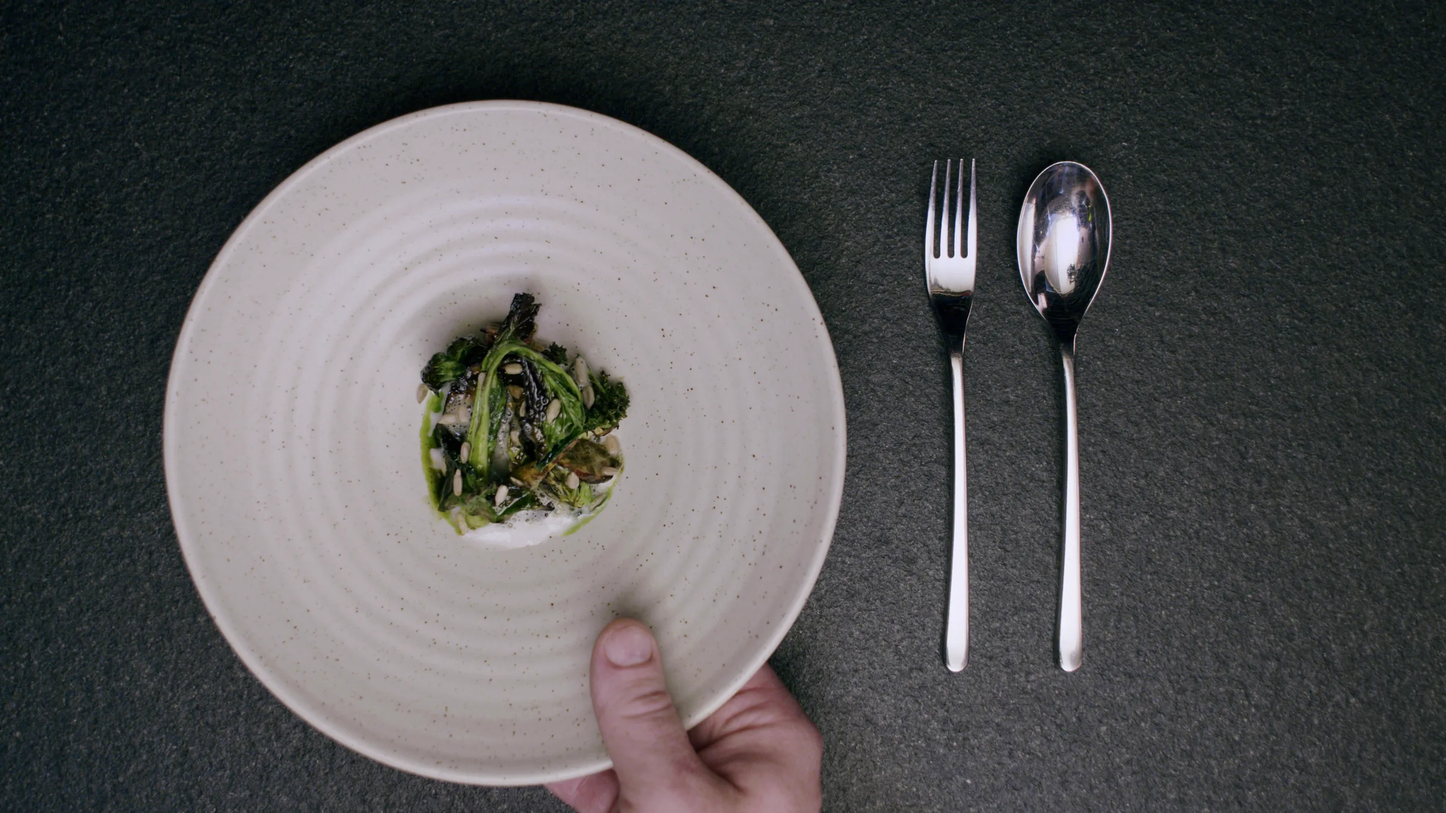
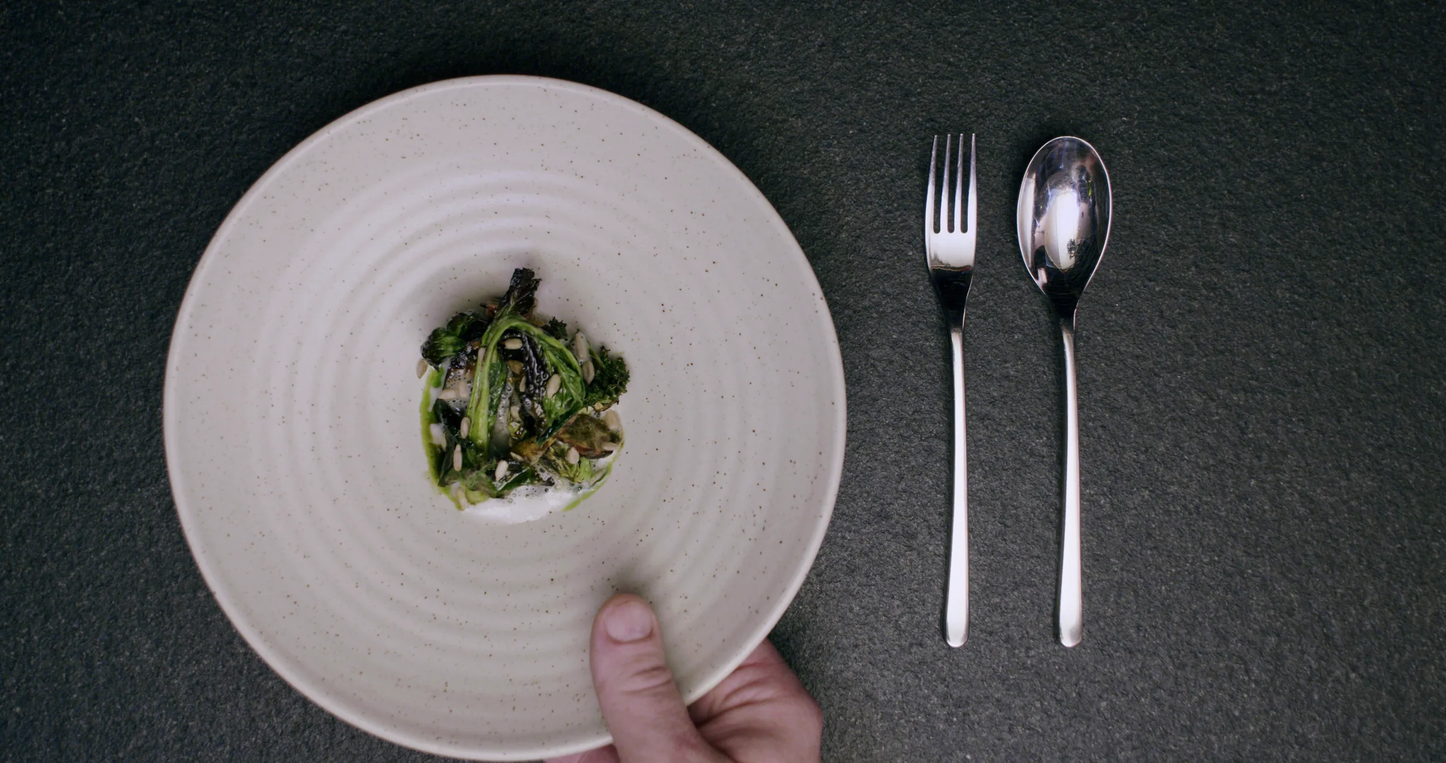
Round 43

diff --git a/data.js b/data.js
@@ -129,37 +129,36 @@ const OTHER_WORK = {
             { video: "clips/restaurants/aulis-fish.mp4",          poster: "clips/restaurants/aulis-fish.jpg", cut: 13.77 },
             { video: "clips/restaurants/aulis-fire.mp4",          poster: "clips/restaurants/aulis-fire.jpg", cut: 11.39 }
           ] },
-          // stills from the shoot, in a shuffled order; the first three named in preview make the preview block
-          { type: "gallery", label: "Stills", dir: "images/restaurants/aulis-stills", preview: ["aulis-still-08", "aulis-still-05", "aulis-still-13"], photos: [
-              { file: "aulis-still-06", ratio: 1.896 },
-              { file: "aulis-still-18", ratio: 1.894 },
-              { file: "aulis-still-21", ratio: 1.897 },
-              { file: "aulis-still-16", ratio: 1.894 },
-              { file: "aulis-still-08", ratio: 1.896 },
-              { file: "aulis-still-15", ratio: 1.899 },
-              { file: "aulis-still-22", ratio: 1.894 },
-              { file: "aulis-still-20", ratio: 1.897 },
+          // stills from the shoot, three to a row when opened: kitchen and food shots alternate with sourcing and suppliers outdoors
+          { type: "gallery", label: "Stills", cols: 3, dir: "images/restaurants/aulis-stills", preview: ["aulis-still-08", "aulis-still-05", "aulis-still-13"], photos: [
+              { file: "aulis-still-14", ratio: 1.896 },
+              { file: "aulis-still-19", ratio: 1.896 },
               { file: "aulis-still-07", ratio: 1.896 },
-              { file: "aulis-still-19", ratio: 1.899 },
-              { file: "aulis-still-14", ratio: 1.894 },
-              { file: "aulis-still-17", ratio: 1.894 },
-              { file: "aulis-still-09", ratio: 1.896 },
-              { file: "aulis-still-01", ratio: 1.896 },
-              { file: "aulis-still-10", ratio: 1.896 },
-              { file: "aulis-still-12", ratio: 1.896 },
-              { file: "aulis-still-04", ratio: 1.896 },
-              { file: "aulis-still-03", ratio: 1.896 },
-              { file: "aulis-still-02", ratio: 1.896 },
-              { file: "aulis-still-13", ratio: 1.778 },
+              { file: "aulis-still-08", ratio: 1.896 },
+              { file: "aulis-still-22", ratio: 1.896 },
               { file: "aulis-still-05", ratio: 1.896 },
-              { file: "aulis-still-11", ratio: 1.896 }
+              { file: "aulis-still-12", ratio: 1.896 },
+              { file: "aulis-still-17", ratio: 1.896 },
+              { file: "aulis-still-13", ratio: 1.896 },
+              { file: "aulis-still-10", ratio: 1.896 },
+              { file: "aulis-still-18", ratio: 1.896 },
+              { file: "aulis-still-01", ratio: 1.896 },
+              { file: "aulis-still-09", ratio: 1.896 },
+              { file: "aulis-still-15", ratio: 1.896 },
+              { file: "aulis-still-06", ratio: 1.896 },
+              { file: "aulis-still-11", ratio: 1.896 },
+              { file: "aulis-still-16", ratio: 1.896 },
+              { file: "aulis-still-02", ratio: 1.896 },
+              { file: "aulis-still-03", ratio: 1.896 },
+              { file: "aulis-still-21", ratio: 1.896 },
+              { file: "aulis-still-04", ratio: 1.896 }
           ] }
         ]
       },
       {
         client: "Simon Rogan", title: "ION Harbour",
         blocks: [
-          { type: "photo", image: "images/restaurants/l/ion-renny.webp", ratio: 0.563 },
+          { type: "photo", image: "images/restaurants/l/ion-greenhouse.webp", ratio: 0.564 },
           { type: "text", text: [
             "ION Harbour by Simon Rogan sits overlooking Malta’s Grand Harbour, Valletta. It opened in November 2020 and won its first Michelin star less than six months later. In April 2024 it became the first restaurant in Malta to hold two Michelin stars.",
             "ION Harbour takes the farm-to-fork approach Rogan developed at L’Enclume in the Lake District and applies it to the Mediterranean. Its seasonal tasting menu depends on close relationships with Maltese farmers, fishermen and artisans, and it is shaped by whatever the island is producing at its best.",

diff --git a/main.js b/main.js
@@ -454,7 +454,7 @@
   /* ---------- Field Map: load the turning globe only as its section comes near ---------- */
   const fmBox = $('#fmGlobe');
   if (fmBox) {
-    const FMV = '20261013n';
+    const FMV = '20261013p';
     const load = src => new Promise((ok, no) => { const s = document.createElement('script'); s.src = src; s.onload = ok; s.onerror = no; document.head.appendChild(s); });
     const lo = new IntersectionObserver(async es => {
       if (!es[0].isIntersecting) return; lo.disconnect();
@@ -605,7 +605,7 @@
       case 'text': case 'titletext': return `<div class="blk txt it${b.type === 'titletext' ? ' tt' : ''}" ${pa} style="background:none">${b.type === 'titletext' ? `<div class="k">${esc(b.k || p.client || S.group)}</div><h2>${esc(b.title || p.title)}</h2>` : ''}${(b.text || []).map(t => `<p>${esc(t)}</p>`).join('')}</div>`;
       case 'gallery': {
         // a single preview block; the full gallery opens on click
-        const gi = galleries.push({ dir: b.dir, photos: b.photos || [], title: p.title }) - 1, ph = b.photos || [], more = Math.max(0, ph.length - 3);
+        const gi = galleries.push({ dir: b.dir, photos: b.photos || [], title: p.title, cols: +b.cols || 0 }) - 1, ph = b.photos || [], more = Math.max(0, ph.length - 3);
         const pv = (b.preview && b.preview.length ? b.preview : ph.slice(0, 3).map(x => x.file));
         const im = j => pv[j] ? `<img src="${esc(b.dir)}/m/${esc(pv[j])}.webp" alt="" loading="lazy" decoding="async">` : '';
         return `<div class="blk galh${b.join ? ' join' : ''}" ${pa}><button type="button" class="it gh" data-g="${gi}" aria-label="Open the photo gallery, ${ph.length} photos">
@@ -1040,7 +1040,8 @@
         const h = last ? Math.min(target, (W - gap * (row.length - 1)) / sum) : (W - gap * (row.length - 1)) / sum;
         row.forEach(([el, r]) => { el.style.width = (r * h) + 'px'; el.style.height = h + 'px'; }); row = []; sum = 0;
       };
-      its.forEach((el, i) => { const r = +G.photos[i].ratio || 1.5; row.push([el, r]); sum += r; if (sum * target + gap * (row.length - 1) >= W) flush(false); });
+      const cols = innerWidth >= 760 && G.cols;   // a set number per row, e.g. three across
+      its.forEach((el, i) => { const r = +G.photos[i].ratio || 1.5; row.push([el, r]); sum += r; if (cols ? row.length === cols : sum * target + gap * (row.length - 1) >= W) flush(false); });
       if (row.length) flush(true);
     };
     addEventListener('resize', () => { if (pg.classList.contains('open')) justify(); });

diff --git a/index.html b/index.html
@@ -11,11 +11,11 @@
 <link rel="preconnect" href="https://fonts.googleapis.com">
 <link rel="preconnect" href="https://fonts.gstatic.com" crossorigin>
 <link href="https://fonts.googleapis.com/css2?family=IBM+Plex+Mono:wght@400;500&family=Instrument+Serif:ital@0;1&family=Manrope:wght@300;400;500;600&display=swap" rel="stylesheet">
-<link rel="stylesheet" href="style.css?v=20261013n">
+<link rel="stylesheet" href="style.css?v=20261013p">
 <script type="application/ld+json">
 {"@context":"https://schema.org","@type":"Person","name":"Christian Marot","jobTitle":"Wildlife & Natural History Cinematographer","birthPlace":"London, UK","homeLocation":{"@type":"Place","name":"London, UK"},"email":"mailto:christian.marot@hotmail.com","url":"https://www.christianmarot.com","image":"https://www.christianmarot.com/images/christian-marot-wildlife-cinematographer.jpg","sameAs":["https://www.instagram.com/christianmarot/","https://vimeo.com/christianmarot","https://www.linkedin.com/in/christian-marot-9525902a/","https://www.imdb.com/name/nm6849161/"]}
 </script>
-<script src="data.js?v=20261013n"></script>
+<script src="data.js?v=20261013p"></script>
 </head>
 <body>
 
@@ -201,6 +201,6 @@
   <div class="base"><span>© 2026 Christian Marot · Wildlife &amp; Natural History Cinematographer, London</span><span>Portrait: Freddie Claire</span></div>
 </footer>
 
-<script src="main.js?v=20261013n"></script>
+<script src="main.js?v=20261013p"></script>
 </body>
 </html>

diff --git a/field-map.html b/field-map.html
@@ -312,12 +312,12 @@ a{color:inherit}
 
 <script src="https://cdn.jsdelivr.net/npm/d3@7.8.5/dist/d3.min.js"></script>
 <script src="https://cdn.jsdelivr.net/npm/topojson-client@3.1.0/dist/topojson-client.min.js"></script>
-<script src="data.js?v=20261013n"></script>
-<script src="fieldmap/geo.js?v=20261013n"></script>
-<script src="fieldmap/geo50.js?v=20261013n"></script>
-<script src="fieldmap/earth.js?v=20261013n"></script>
-<script src="fieldmap/sky.js?v=20261013n"></script>
-<script src="fieldmap/map.js?v=20261013n"></script>
+<script src="data.js?v=20261013p"></script>
+<script src="fieldmap/geo.js?v=20261013p"></script>
+<script src="fieldmap/geo50.js?v=20261013p"></script>
+<script src="fieldmap/earth.js?v=20261013p"></script>
+<script src="fieldmap/sky.js?v=20261013p"></script>
+<script src="fieldmap/map.js?v=20261013p"></script>
 
 </body>
 </html>

diff --git a/work.html b/work.html
@@ -9,8 +9,8 @@
 <link rel="preconnect" href="https://fonts.googleapis.com">
 <link rel="preconnect" href="https://fonts.gstatic.com" crossorigin>
 <link href="https://fonts.googleapis.com/css2?family=IBM+Plex+Mono:wght@400;500&family=Instrument+Serif:ital@0;1&family=Manrope:wght@300;400;500;600&display=swap" rel="stylesheet">
-<link rel="stylesheet" href="style.css?v=20261013n">
-<script src="data.js?v=20261013n"></script>
+<link rel="stylesheet" href="style.css?v=20261013p">
+<script src="data.js?v=20261013p"></script>
 </head>
 <body>
 
@@ -76,6 +76,6 @@
 </footer>
 
 <script src="https://player.vimeo.com/api/player.js"></script>
-<script src="main.js?v=20261013n"></script>
+<script src="main.js?v=20261013p"></script>
 </body>
 </html>
